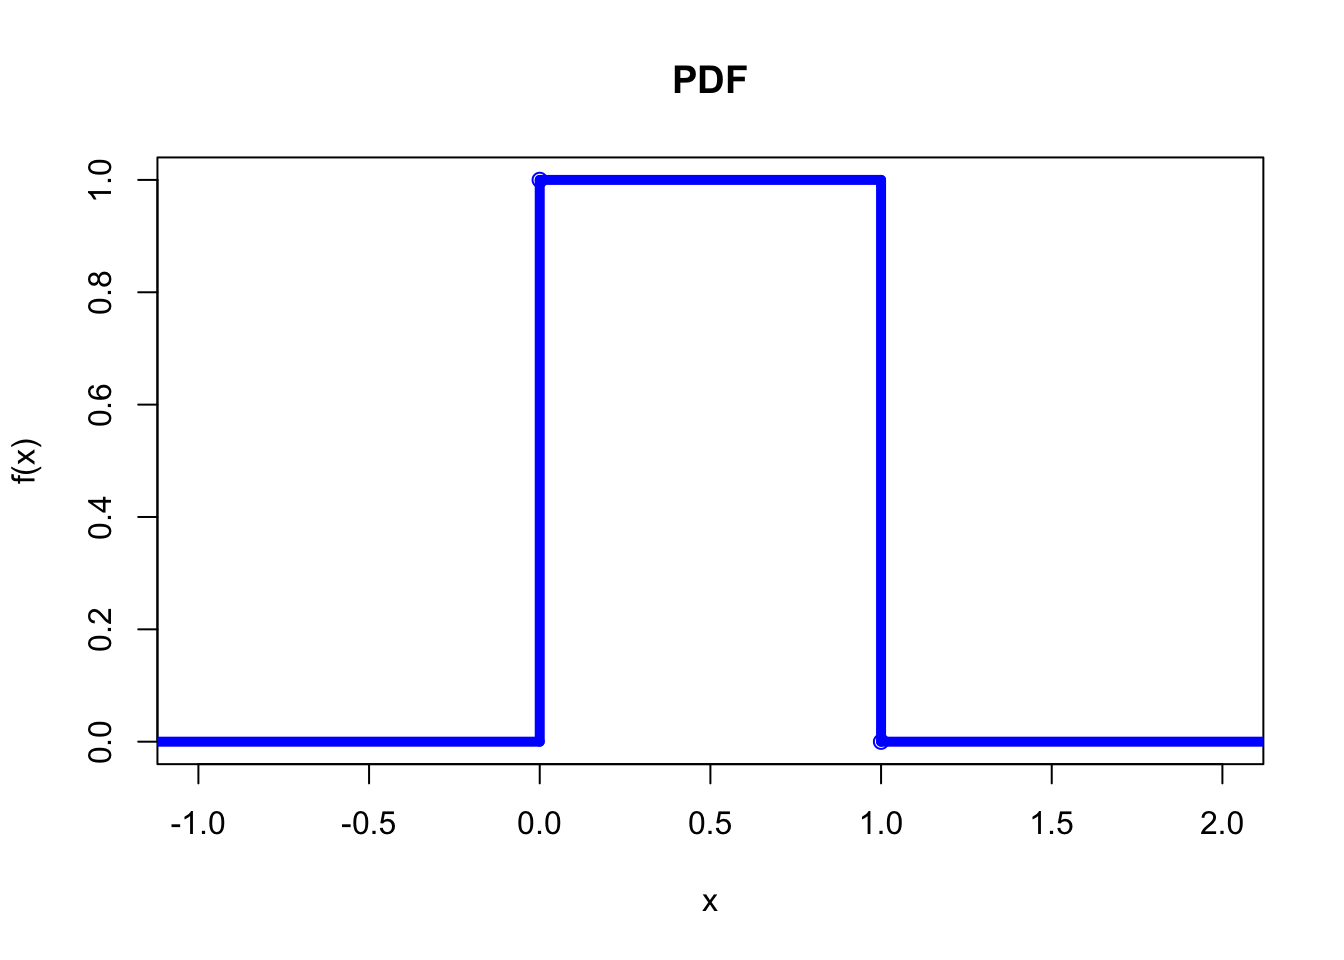
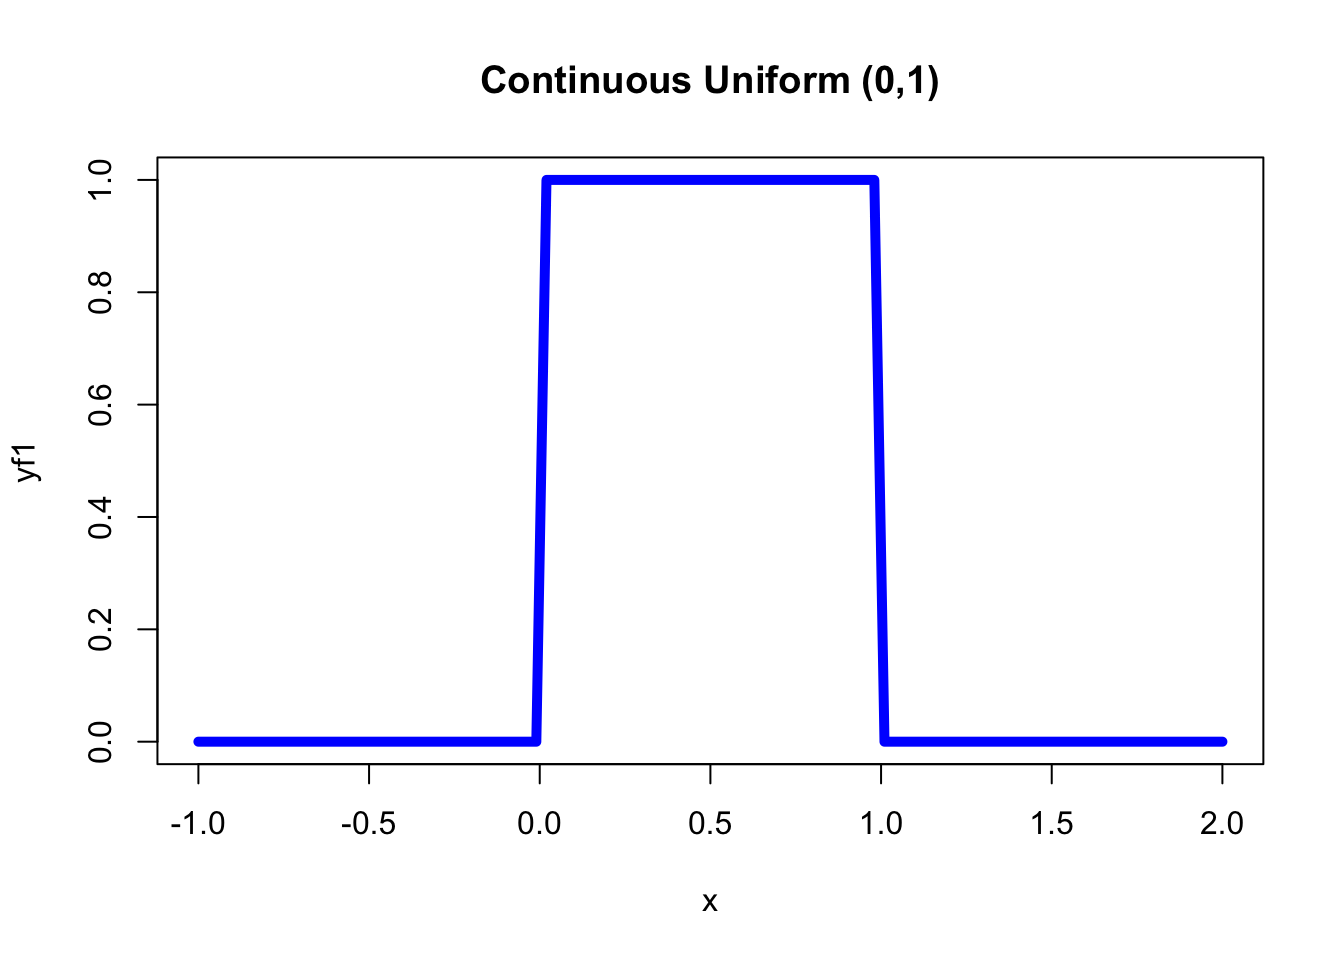
11-12

diff --git a/test.html b/test.html
@@ -226,11 +226,15 @@ pre > code.sourceCode > span > a:first-child::before { text-decoration: underlin
 </div>
 </div>
 </div></div><div class="cell">
-<div class="code-copy-outer-scaffold"><div class="sourceCode cell-code" id="cb1"><pre class="sourceCode r code-with-copy"><code class="sourceCode r"><span id="cb1-1"><a href="#cb1-1" aria-hidden="true" tabindex="-1"></a><span class="co"># discrete uniform stepfunction</span></span>
-<span id="cb1-2"><a href="#cb1-2" aria-hidden="true" tabindex="-1"></a>x <span class="ot">&lt;-</span> <span class="fu">c</span>(<span class="dv">0</span>,<span class="dv">1</span>)</span>
-<span id="cb1-3"><a href="#cb1-3" aria-hidden="true" tabindex="-1"></a>y <span class="ot">&lt;-</span> <span class="fu">c</span>(<span class="dv">0</span>,<span class="dv">1</span>,<span class="dv">0</span>)</span>
-<span id="cb1-4"><a href="#cb1-4" aria-hidden="true" tabindex="-1"></a>mystepf <span class="ot">&lt;-</span> <span class="fu">stepfun</span>(x,y)</span>
-<span id="cb1-5"><a href="#cb1-5" aria-hidden="true" tabindex="-1"></a><span class="fu">plot</span>(mystepf,<span class="at">lwd=</span><span class="dv">2</span>,<span class="at">main=</span><span class="st">"Continuous Step-Uniform (0,1)"</span>)</span></code></pre></div><button title="Copy to Clipboard" class="code-copy-button"><i class="bi"></i></button></div>
+<div class="code-copy-outer-scaffold"><div class="sourceCode cell-code" id="cb1"><pre class="sourceCode r code-with-copy"><code class="sourceCode r"><span id="cb1-1"><a href="#cb1-1" aria-hidden="true" tabindex="-1"></a><span class="co"># continuous uniform(0,1)</span></span>
+<span id="cb1-2"><a href="#cb1-2" aria-hidden="true" tabindex="-1"></a>f1 <span class="ot">&lt;-</span> <span class="cf">function</span>(x){</span>
+<span id="cb1-3"><a href="#cb1-3" aria-hidden="true" tabindex="-1"></a>  <span class="cf">if</span> (x <span class="sc">&gt;</span> <span class="dv">0</span> <span class="sc">&amp;&amp;</span> x <span class="sc">&lt;</span> <span class="dv">1</span>) {</span>
+<span id="cb1-4"><a href="#cb1-4" aria-hidden="true" tabindex="-1"></a>     <span class="dv">1</span></span>
+<span id="cb1-5"><a href="#cb1-5" aria-hidden="true" tabindex="-1"></a>  } <span class="cf">else</span> </span>
+<span id="cb1-6"><a href="#cb1-6" aria-hidden="true" tabindex="-1"></a>     <span class="dv">0</span></span>
+<span id="cb1-7"><a href="#cb1-7" aria-hidden="true" tabindex="-1"></a>}</span>
+<span id="cb1-8"><a href="#cb1-8" aria-hidden="true" tabindex="-1"></a>yf1 <span class="ot">&lt;-</span> <span class="fu">Vectorize</span>(f1)</span>
+<span id="cb1-9"><a href="#cb1-9" aria-hidden="true" tabindex="-1"></a><span class="fu">plot</span>(yf1, <span class="at">from=</span><span class="sc">-</span><span class="dv">1</span>, <span class="at">to=</span><span class="dv">2</span>, <span class="at">lwd=</span><span class="dv">4</span>, <span class="at">main=</span><span class="st">"Continuous Uniform (0,1)"</span>)</span></code></pre></div><button title="Copy to Clipboard" class="code-copy-button"><i class="bi"></i></button></div>
 <div class="cell-output-display">
 <div>
 <figure class="figure">
@@ -240,10 +244,18 @@ pre > code.sourceCode > span > a:first-child::before { text-decoration: underlin
 </div>
 </div>
 <div class="cell">
-<div class="code-copy-outer-scaffold"><div class="sourceCode cell-code" id="cb2"><pre class="sourceCode r code-with-copy"><code class="sourceCode r"><span id="cb2-1"><a href="#cb2-1" aria-hidden="true" tabindex="-1"></a>x<span class="ot">=</span><span class="fu">c</span>(<span class="sc">-</span><span class="dv">1</span>,<span class="dv">0</span>,<span class="dv">1</span>,<span class="dv">2</span>)</span>
-<span id="cb2-2"><a href="#cb2-2" aria-hidden="true" tabindex="-1"></a>y<span class="ot">=</span><span class="fu">c</span>(<span class="dv">0</span>,<span class="dv">0</span>,<span class="dv">1</span>,<span class="dv">1</span>)</span>
-<span id="cb2-3"><a href="#cb2-3" aria-hidden="true" tabindex="-1"></a><span class="fu">plot</span>(x,y,<span class="at">type=</span><span class="st">"l"</span>,<span class="at">lwd=</span><span class="dv">4</span>, <span class="at">col=</span><span class="st">"blue"</span>, <span class="at">main=</span><span class="st">"Segmented Function"</span>)</span>
-<span id="cb2-4"><a href="#cb2-4" aria-hidden="true" tabindex="-1"></a><span class="fu">abline</span>(<span class="at">v=</span><span class="fu">c</span>(<span class="dv">0</span>,<span class="dv">1</span>))</span></code></pre></div><button title="Copy to Clipboard" class="code-copy-button"><i class="bi"></i></button></div>
+<div class="code-copy-outer-scaffold"><div class="sourceCode cell-code" id="cb2"><pre class="sourceCode r code-with-copy"><code class="sourceCode r"><span id="cb2-1"><a href="#cb2-1" aria-hidden="true" tabindex="-1"></a><span class="co"># CDF of the above uniform</span></span>
+<span id="cb2-2"><a href="#cb2-2" aria-hidden="true" tabindex="-1"></a>f2 <span class="ot">&lt;-</span> <span class="cf">function</span>(x){</span>
+<span id="cb2-3"><a href="#cb2-3" aria-hidden="true" tabindex="-1"></a>  <span class="cf">if</span> (x <span class="sc">&lt;</span> <span class="dv">0</span>) {</span>
+<span id="cb2-4"><a href="#cb2-4" aria-hidden="true" tabindex="-1"></a>     <span class="dv">0</span></span>
+<span id="cb2-5"><a href="#cb2-5" aria-hidden="true" tabindex="-1"></a>  } <span class="cf">else</span> <span class="cf">if</span> (x <span class="sc">&gt;=</span> <span class="dv">0</span> <span class="sc">&amp;&amp;</span> x<span class="sc">&lt;</span><span class="dv">1</span>) {</span>
+<span id="cb2-6"><a href="#cb2-6" aria-hidden="true" tabindex="-1"></a>     x</span>
+<span id="cb2-7"><a href="#cb2-7" aria-hidden="true" tabindex="-1"></a>  } <span class="cf">else</span> <span class="cf">if</span> (x <span class="sc">&gt;=</span> <span class="dv">1</span>)</span>
+<span id="cb2-8"><a href="#cb2-8" aria-hidden="true" tabindex="-1"></a>     <span class="dv">1</span></span>
+<span id="cb2-9"><a href="#cb2-9" aria-hidden="true" tabindex="-1"></a>}</span>
+<span id="cb2-10"><a href="#cb2-10" aria-hidden="true" tabindex="-1"></a>yf2 <span class="ot">&lt;-</span> <span class="fu">Vectorize</span>(f2)</span>
+<span id="cb2-11"><a href="#cb2-11" aria-hidden="true" tabindex="-1"></a><span class="fu">plot</span>(yf2, <span class="at">from=</span><span class="sc">-</span><span class="dv">1</span>, <span class="at">to=</span><span class="dv">2</span>, <span class="at">lwd=</span><span class="dv">4</span>, <span class="at">main=</span><span class="st">"CDF"</span>)</span>
+<span id="cb2-12"><a href="#cb2-12" aria-hidden="true" tabindex="-1"></a><span class="fu">abline</span>(<span class="at">v=</span><span class="fu">c</span>(<span class="dv">0</span>,<span class="dv">1</span>))</span></code></pre></div><button title="Copy to Clipboard" class="code-copy-button"><i class="bi"></i></button></div>
 <div class="cell-output-display">
 <div>
 <figure class="figure">
@@ -277,10 +289,13 @@ pre > code.sourceCode > span > a:first-child::before { text-decoration: underlin
 <span id="cb4-7"><a href="#cb4-7" aria-hidden="true" tabindex="-1"></a>f <span class="ot">&lt;-</span> <span class="fu">Vectorize</span>(f)</span></code></pre></div><button title="Copy to Clipboard" class="code-copy-button"><i class="bi"></i></button></div>
 </div>
 <div class="cell">
-<div class="code-copy-outer-scaffold"><div class="sourceCode cell-code" id="cb5"><pre class="sourceCode r code-with-copy"><code class="sourceCode r"><span id="cb5-1"><a href="#cb5-1" aria-hidden="true" tabindex="-1"></a>x <span class="ot">&lt;-</span> <span class="fu">c</span>(<span class="sc">-</span><span class="dv">1</span>,<span class="dv">0</span>,<span class="dv">4</span>)</span>
-<span id="cb5-2"><a href="#cb5-2" aria-hidden="true" tabindex="-1"></a><span class="fu">f</span>(x)</span></code></pre></div><button title="Copy to Clipboard" class="code-copy-button"><i class="bi"></i></button></div>
-<div class="cell-output cell-output-stdout">
-<pre><code>[1] 0.0000000 0.0000000 0.9816844</code></pre>
+<div class="code-copy-outer-scaffold"><div class="sourceCode cell-code" id="cb5"><pre class="sourceCode r code-with-copy"><code class="sourceCode r"><span id="cb5-1"><a href="#cb5-1" aria-hidden="true" tabindex="-1"></a><span class="fu">plot</span>(y, <span class="at">from=</span><span class="sc">-</span><span class="dv">1</span>, <span class="at">to=</span><span class="dv">1</span>,<span class="at">lwd=</span><span class="dv">4</span>,<span class="at">col=</span><span class="st">"blue"</span>)</span></code></pre></div><button title="Copy to Clipboard" class="code-copy-button"><i class="bi"></i></button></div>
+<div class="cell-output-display">
+<div>
+<figure class="figure">
+<p><img src="test_files/figure-html/unnamed-chunk-6-1.png" class="img-fluid figure-img" width="672"></p>
+</figure>
+</div>
 </div>
 </div>
 <pre><code></code></pre>

diff --git a/transformation.html b/transformation.html
@@ -302,6 +302,18 @@ f_X(x) &amp;= 1 \text{ if } 0 &lt; x &lt; 1 \\
 
 <div class="no-row-height column-margin column-container"><div class="">
 <div class="cell">
+<details class="code-fold">
+<summary>Code</summary>
+<div class="code-copy-outer-scaffold"><div class="sourceCode cell-code" id="cb2"><pre class="sourceCode r code-with-copy"><code class="sourceCode r"><span id="cb2-1"><a href="#cb2-1" aria-hidden="true" tabindex="-1"></a><span class="co"># uniform(0,1)</span></span>
+<span id="cb2-2"><a href="#cb2-2" aria-hidden="true" tabindex="-1"></a>f1 <span class="ot">&lt;-</span> <span class="cf">function</span>(x){</span>
+<span id="cb2-3"><a href="#cb2-3" aria-hidden="true" tabindex="-1"></a>  <span class="cf">if</span> (x <span class="sc">&gt;</span> <span class="dv">0</span> <span class="sc">&amp;&amp;</span> x <span class="sc">&lt;</span> <span class="dv">1</span>) {</span>
+<span id="cb2-4"><a href="#cb2-4" aria-hidden="true" tabindex="-1"></a>     <span class="dv">1</span></span>
+<span id="cb2-5"><a href="#cb2-5" aria-hidden="true" tabindex="-1"></a>  } <span class="cf">else</span> </span>
+<span id="cb2-6"><a href="#cb2-6" aria-hidden="true" tabindex="-1"></a>     <span class="dv">0</span></span>
+<span id="cb2-7"><a href="#cb2-7" aria-hidden="true" tabindex="-1"></a>}</span>
+<span id="cb2-8"><a href="#cb2-8" aria-hidden="true" tabindex="-1"></a>yf1 <span class="ot">&lt;-</span> <span class="fu">Vectorize</span>(f1)</span>
+<span id="cb2-9"><a href="#cb2-9" aria-hidden="true" tabindex="-1"></a><span class="fu">plot</span>(yf1, <span class="at">from=</span><span class="sc">-</span><span class="dv">1</span>, <span class="at">to=</span><span class="dv">2</span>, <span class="at">lwd=</span><span class="dv">5</span>, <span class="at">col=</span><span class="st">"blue"</span>,<span class="at">main=</span><span class="st">"Continuous Uniform (0,1)"</span>)</span></code></pre></div><button title="Copy to Clipboard" class="code-copy-button"><i class="bi"></i></button></div>
+</details>
 <div class="cell-output-display">
 <div>
 <figure class="figure">
@@ -314,6 +326,21 @@ f_X(x) &amp;= 1 \text{ if } 0 &lt; x &lt; 1 \\
 
 <div class="no-row-height column-margin column-container"><div class="">
 <div class="cell">
+<details class="code-fold">
+<summary>Code</summary>
+<div class="code-copy-outer-scaffold"><div class="sourceCode cell-code" id="cb3"><pre class="sourceCode r code-with-copy"><code class="sourceCode r"><span id="cb3-1"><a href="#cb3-1" aria-hidden="true" tabindex="-1"></a><span class="co"># Cumulative Uniform Distribution</span></span>
+<span id="cb3-2"><a href="#cb3-2" aria-hidden="true" tabindex="-1"></a>f2 <span class="ot">&lt;-</span> <span class="cf">function</span>(x){</span>
+<span id="cb3-3"><a href="#cb3-3" aria-hidden="true" tabindex="-1"></a>  <span class="cf">if</span> (x <span class="sc">&lt;</span> <span class="dv">0</span>) {</span>
+<span id="cb3-4"><a href="#cb3-4" aria-hidden="true" tabindex="-1"></a>     <span class="dv">0</span></span>
+<span id="cb3-5"><a href="#cb3-5" aria-hidden="true" tabindex="-1"></a>  } <span class="cf">else</span> <span class="cf">if</span> (x <span class="sc">&gt;=</span> <span class="dv">0</span> <span class="sc">&amp;&amp;</span> x<span class="sc">&lt;</span><span class="dv">1</span>) {</span>
+<span id="cb3-6"><a href="#cb3-6" aria-hidden="true" tabindex="-1"></a>     x</span>
+<span id="cb3-7"><a href="#cb3-7" aria-hidden="true" tabindex="-1"></a>  } <span class="cf">else</span> <span class="cf">if</span> (x <span class="sc">&gt;=</span> <span class="dv">1</span>)</span>
+<span id="cb3-8"><a href="#cb3-8" aria-hidden="true" tabindex="-1"></a>     <span class="dv">1</span></span>
+<span id="cb3-9"><a href="#cb3-9" aria-hidden="true" tabindex="-1"></a>}</span>
+<span id="cb3-10"><a href="#cb3-10" aria-hidden="true" tabindex="-1"></a>yf2 <span class="ot">&lt;-</span> <span class="fu">Vectorize</span>(f2)</span>
+<span id="cb3-11"><a href="#cb3-11" aria-hidden="true" tabindex="-1"></a><span class="fu">plot</span>(yf2, <span class="at">from=</span><span class="sc">-</span><span class="dv">1</span>, <span class="at">to=</span><span class="dv">2</span>, <span class="at">lwd=</span><span class="dv">5</span>, <span class="at">col=</span><span class="st">"blue"</span>,<span class="at">main=</span><span class="st">"CDF"</span>)</span>
+<span id="cb3-12"><a href="#cb3-12" aria-hidden="true" tabindex="-1"></a><span class="fu">abline</span>(<span class="at">v=</span><span class="fu">c</span>(<span class="dv">0</span>,<span class="dv">1</span>))</span></code></pre></div><button title="Copy to Clipboard" class="code-copy-button"><i class="bi"></i></button></div>
+</details>
 <div class="cell-output-display">
 <div>
 <figure class="figure">
@@ -328,6 +355,13 @@ f_X(x) &amp;= 1 \text{ if } 0 &lt; x &lt; 1 \\
 
 <div class="no-row-height column-margin column-container"><div class="">
 <div class="cell">
+<details class="code-fold">
+<summary>Code</summary>
+<div class="code-copy-outer-scaffold"><div class="sourceCode cell-code" id="cb4"><pre class="sourceCode r code-with-copy"><code class="sourceCode r"><span id="cb4-1"><a href="#cb4-1" aria-hidden="true" tabindex="-1"></a><span class="co"># f(x)= -log x</span></span>
+<span id="cb4-2"><a href="#cb4-2" aria-hidden="true" tabindex="-1"></a>y <span class="ot">&lt;-</span> <span class="cf">function</span>(x){<span class="sc">-</span><span class="fu">log</span>(x)}</span>
+<span id="cb4-3"><a href="#cb4-3" aria-hidden="true" tabindex="-1"></a><span class="fu">plot</span>(y, <span class="at">from=</span><span class="sc">-</span><span class="dv">1</span>, <span class="at">to=</span><span class="dv">2</span>,<span class="at">lwd=</span><span class="dv">5</span>, <span class="at">main=</span><span class="st">"g(x) = - log(x)"</span>,<span class="at">col=</span><span class="st">"blue"</span>)</span>
+<span id="cb4-4"><a href="#cb4-4" aria-hidden="true" tabindex="-1"></a><span class="fu">abline</span>(<span class="at">v=</span><span class="fu">c</span>(<span class="dv">0</span>,<span class="dv">1</span>))</span></code></pre></div><button title="Copy to Clipboard" class="code-copy-button"><i class="bi"></i></button></div>
+</details>
 <div class="cell-output-display">
 <div>
 <figure class="figure">
@@ -347,6 +381,15 @@ f_X(x) &amp;= 1 \text{ if } 0 &lt; x &lt; 1 \\
 
 <div class="no-row-height column-margin column-container"><div class="">
 <div class="cell">
+<details class="code-fold">
+<summary>Code</summary>
+<div class="code-copy-outer-scaffold"><div class="sourceCode cell-code" id="cb5"><pre class="sourceCode r code-with-copy"><code class="sourceCode r"><span id="cb5-1"><a href="#cb5-1" aria-hidden="true" tabindex="-1"></a><span class="co"># 1-exp(-x)</span></span>
+<span id="cb5-2"><a href="#cb5-2" aria-hidden="true" tabindex="-1"></a>y <span class="ot">&lt;-</span> <span class="cf">function</span>(x){</span>
+<span id="cb5-3"><a href="#cb5-3" aria-hidden="true" tabindex="-1"></a>    <span class="fu">ifelse</span>(x<span class="sc">&gt;=</span><span class="dv">0</span>, <span class="dv">1</span><span class="sc">-</span><span class="fu">exp</span>(<span class="sc">-</span>x), <span class="dv">0</span>)</span>
+<span id="cb5-4"><a href="#cb5-4" aria-hidden="true" tabindex="-1"></a>  }</span>
+<span id="cb5-5"><a href="#cb5-5" aria-hidden="true" tabindex="-1"></a><span class="fu">plot</span>(y, <span class="at">from=</span><span class="sc">-</span><span class="dv">1</span>, <span class="at">to=</span><span class="dv">2</span>,<span class="at">lwd=</span><span class="dv">5</span>,<span class="at">col=</span><span class="st">"blue"</span>,<span class="at">main=</span><span class="st">"CDF of transform = 1 - exp(-x)"</span>)</span>
+<span id="cb5-6"><a href="#cb5-6" aria-hidden="true" tabindex="-1"></a><span class="fu">abline</span>(<span class="at">v=</span><span class="fu">c</span>(<span class="dv">0</span>,<span class="dv">1</span>))</span></code></pre></div><button title="Copy to Clipboard" class="code-copy-button"><i class="bi"></i></button></div>
+</details>
 <div class="cell-output-display">
 <div>
 <figure class="figure">
